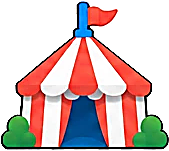
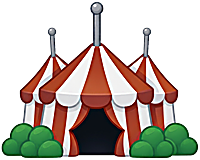
New circus art for all four levels, with tint layers for the flags
Claude-Session: https://claude.ai/code/session_01EuN63CBabUhHG8UqQFvBhT

diff --git a/apps/client/src/changelog.ts b/apps/client/src/changelog.ts
@@ -47,6 +47,7 @@ export const CHANGELOG: ChangelogEntry[] = [
       },
     ],
     extras: [
+      'New circus art for all four levels (the flags take the owner’s color)',
       'Stock screen map: hover a district to outline all its properties',
       'Stock screen map no longer shows player dots',
       'A soft sound as each hop starts; the step sounds as you land',

diff --git a/apps/client/src/ui/lab.ts b/apps/client/src/ui/lab.ts
@@ -91,6 +91,7 @@ const rnd = (n: number) => Math.floor(Math.random() * n);
  * are easy to find. Update this list with each change.
  */
 const RECENT = new Set([
+  'Design gallery',
   'Buy stock (10% off)',
   'Sell stock (20% above)',
   'Stock market',
